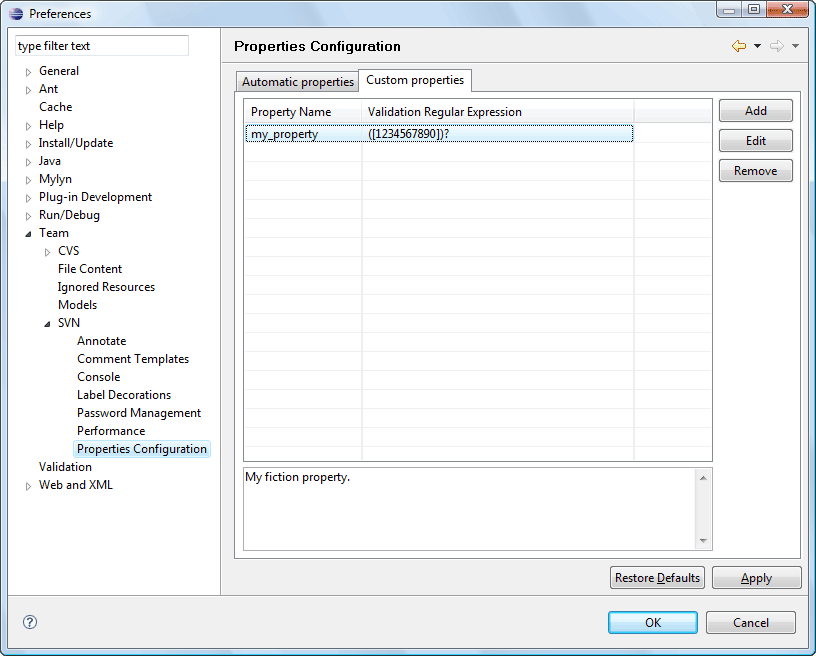
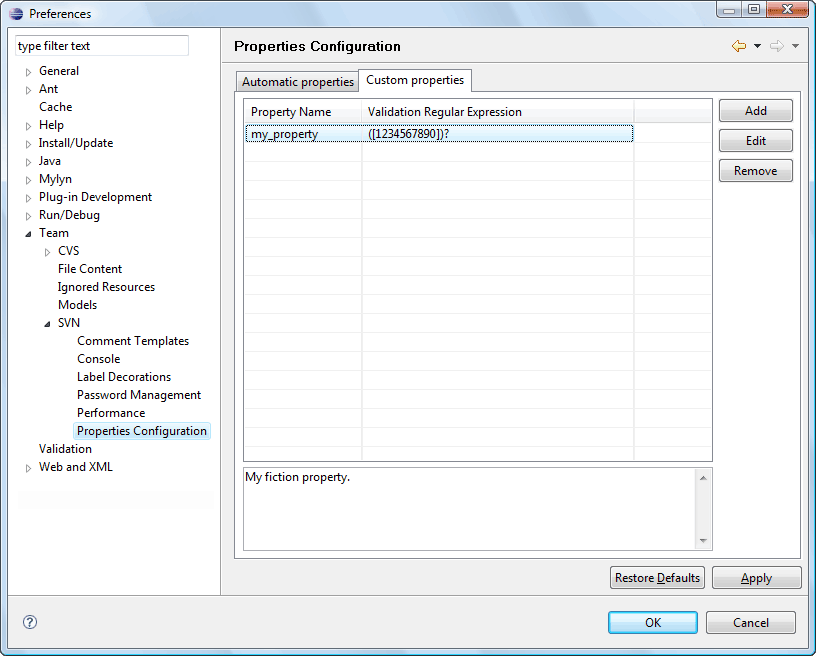
Update help according to plug-in changes (bug 225568) https://bugs.eclipse.org/bugs/show_bug.cgi?id=225568
The back slash is not supported in combined URLs (bug 228394)
https://bugs.eclipse.org/bugs/show_bug.cgi?id=228394

Changed region(s): [[0.0306, 0.5183, 0.2757, 0.7622]]

diff --git a/org.eclipse.team.svn.help/index.html b/org.eclipse.team.svn.help/index.html
@@ -47,7 +47,6 @@
 		<li><a href="prefs.html">Preferences</a>
 		<ul>
 		<li><a href="preferences/pref_svn.html">SVN</a></li>
-		<li><a href="preferences/pref_annotate.html">Annotate</a></li>
 		<li><a href="preferences/pref_comments.html">Comment Templates</a></li>
 		<li><a href="preferences/pref_console.html">Console</a></li>
 		<li><a href="preferences/pref_label_decors.html">Label Decorations</a></li>
@@ -72,7 +71,6 @@
 		<li><a href="teamSupport/merge_dialog.html">SVN Merge Dialog</a></li>
 		<li><a href="teamSupport/props_view.html">SVN Properties View</a></li>
 
-		<li><a href="teamSupport/annotation_view.html">SVN Annotation View</a></li>
 		<li><a href="teamSupport/svn_info.html">SVN Info</a></li>
 		<li><a href="teamSupport/svn_toolbar.html">SVN Toolbar</a></li>
 		<li><a href="teamSupport/svn_label_decor.html">SVN Label Decorations</a></li>

diff --git a/org.eclipse.team.svn.help/teamSupport.html b/org.eclipse.team.svn.help/teamSupport.html
@@ -114,8 +114,6 @@
 		<br/>
 		<a href="teamSupport/props_view.html">SVN Properties View</a>
 		<br/>
-		<a href="teamSupport/annotation_view.html">SVN Annotation View</a>
-		<br/>
 		<a href="teamSupport/svn_info.html">SVN Info</a>
 		<br/>
 		<a href="teamSupport/svn_toolbar.html">SVN Toolbar</a>

diff --git a/org.eclipse.team.svn.help/prefs.html b/org.eclipse.team.svn.help/prefs.html
@@ -31,8 +31,6 @@
 		<br/>
 		<a href="preferences/pref_svn.html">SVN</a>
 		<br/>
-		<a href="preferences/pref_annotate.html">Annotate</a>
-		<br/>
 		<a href="preferences/pref_comments.html">Comment Templates</a>
 		<br/>
 		<a href="preferences/pref_console.html">Console</a>

diff --git a/org.eclipse.team.svn.core/src/org/eclipse/team/svn/core/svnstorage/SVNRepositoryResource.java b/org.eclipse.team.svn.core/src/org/eclipse/team/svn/core/svnstorage/SVNRepositoryResource.java
@@ -22,6 +22,7 @@ import org.eclipse.team.svn.core.resource.IRepositoryFile;
 import org.eclipse.team.svn.core.resource.IRepositoryLocation;
 import org.eclipse.team.svn.core.resource.IRepositoryResource;
 import org.eclipse.team.svn.core.resource.IRepositoryRoot;
+import org.eclipse.team.svn.core.utility.SVNUtility;
 
 /**
  * SVN based representation of IRepositoryResource
@@ -122,7 +123,7 @@ public abstract class SVNRepositoryResource extends SVNRepositoryBase implements
 	}
 
 	public IRepositoryResource getParent() {
-		String parentUrl = this.getUrl();
+		String parentUrl = SVNUtility.normalizeURL(this.getUrl());
 		int idx = parentUrl.lastIndexOf('/');
 		if (idx != -1) {
 			parentUrl = parentUrl.substring(0, idx);
